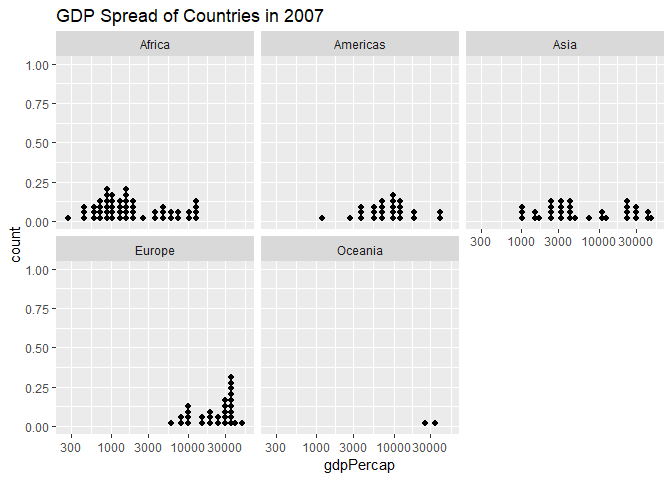
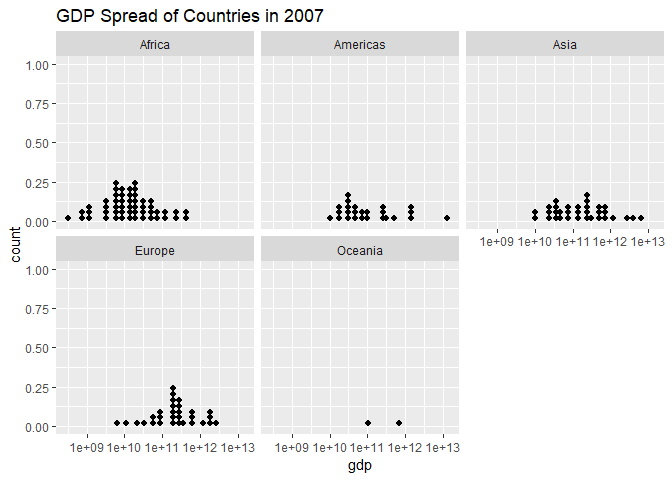
update files

diff --git a/hw03.md b/hw03.md
@@ -157,13 +157,13 @@ It is an interesting trend that the difference in GDP per capita between the ric
 A final task for GDP per capita will be to look at the spread of GDP per capita within each continent.
 
 ``` r
-#filter gapminder to year 2007, and select continent and gdpPercap columns
 gapminder %>% 
-  filter(year == 2007) %>% 
-  select(continent, gdpPercap) %>% 
+  filter(year == 2007) %>% #filter gapminder to year 2007
+  mutate(gdp = pop*gdpPercap) %>% #add column computing GDP
+  
 
   #make dot plots of gdpPercap, with log scaling 
-  ggplot( aes(gdpPercap)) +
+  ggplot( aes(gdp)) +
   geom_dotplot() +
   scale_x_log10() +
   facet_wrap(~continent) +
